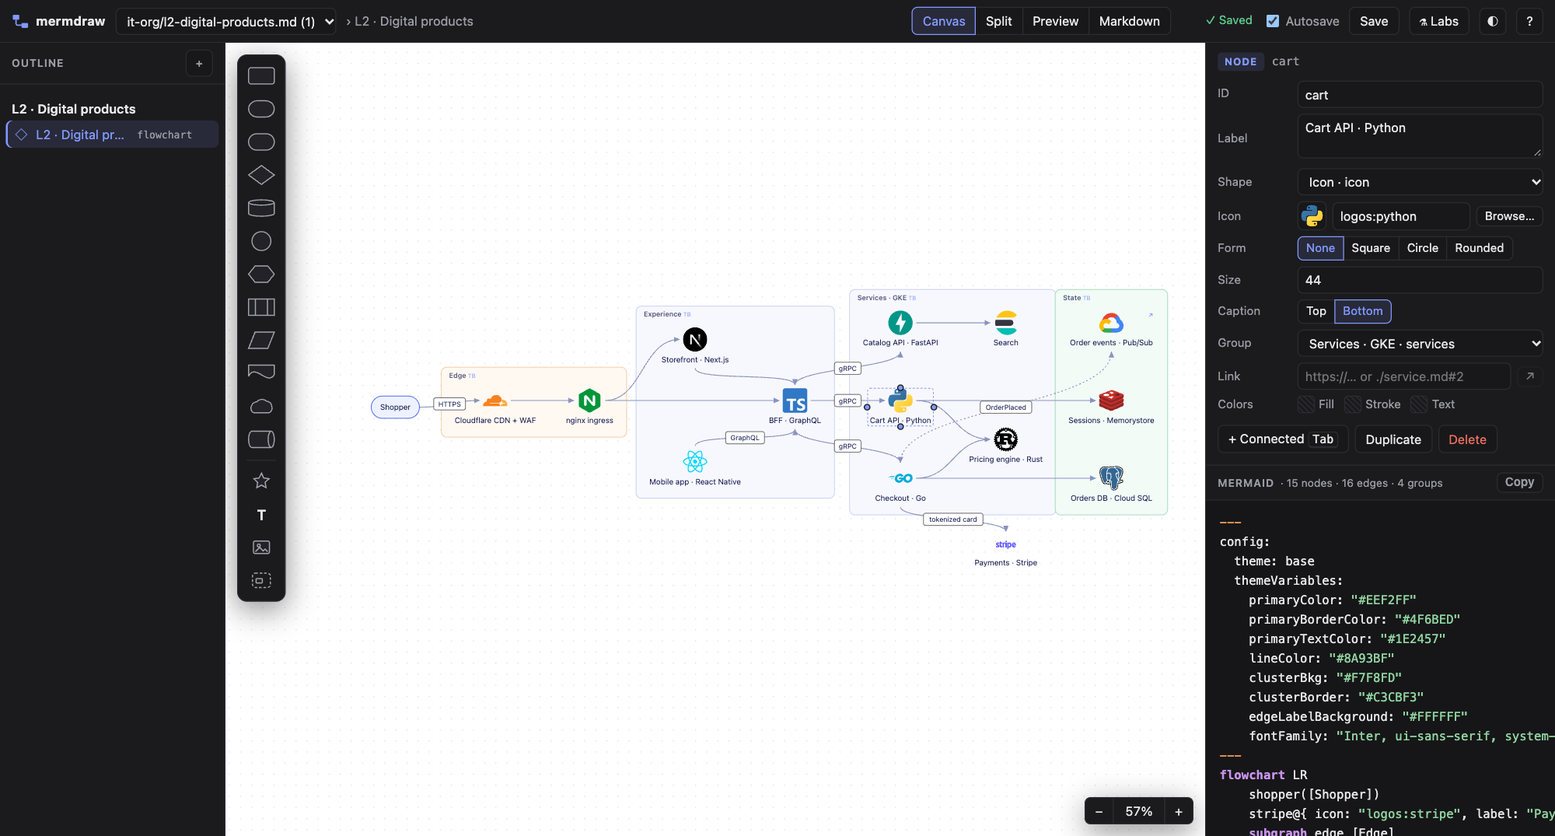
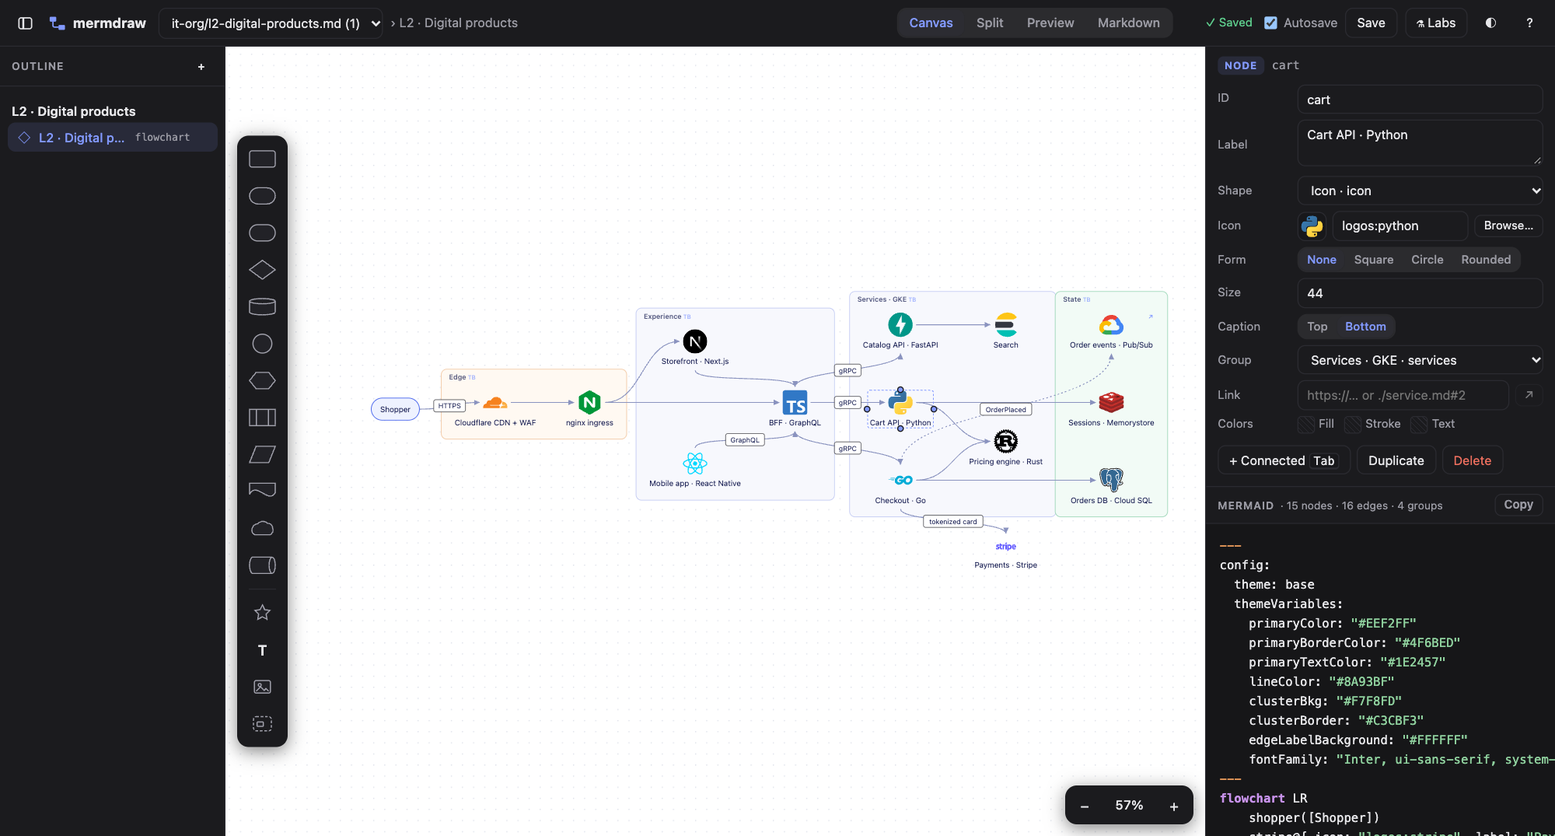
Collapsible outline, centered palette, Miro-style chrome
- The outline sidebar collapses with a top-bar toggle or Cmd-\, slides
  in and out, and the choice is remembered per browser
- The palette is vertically centered on the canvas's left edge and
  adds a second or third column when the canvas is too short; fit to
  screen keeps diagrams clear of it
- Borderless floating toolbars with a soft layered shadow for the
  palette, zoom bar and back button (now top-left, above the palette)
- Ghost icon buttons with gray hover, pill-style segmented controls,
  8px corners, hover borders and keyboard focus rings on inputs;
  colors and layout are unchanged
- Refresh the README screenshots

diff --git a/web/app.css b/web/app.css
@@ -24,6 +24,11 @@
   --hl-cmt: #9a9aa3;
   --hl-lbl: #1f6fb2;
   --shadow: 0 8px 30px rgba(20, 20, 30, 0.12);
+  /* floating toolbars on the canvas (palette, zoom, back): borderless, soft layered shadow */
+  --island: 0 0 0 1px rgba(20, 20, 30, 0.05), 0 2px 6px rgba(20, 20, 30, 0.07), 0 10px 28px rgba(20, 20, 30, 0.07);
+  --hover: rgba(20, 20, 30, 0.055);
+  --raised: #ffffff;
+  --radius: 8px;
   --font: ui-sans-serif, system-ui, -apple-system, "Segoe UI", Roboto, sans-serif;
   --mono: ui-monospace, "SF Mono", Menlo, Consolas, monospace;
   color-scheme: light;
@@ -36,6 +41,7 @@
     --group-fill: rgba(130, 153, 255, 0.05); --group-stroke: #3d4670; --grid: #2a2a2f; --code-bg: #161618;
     --hl-kw: #c792ea; --hl-str: #8fd19e; --hl-arrow: #f5a25d; --hl-cmt: #6a6a74; --hl-lbl: #7fb8f0;
     --shadow: 0 8px 30px rgba(0, 0, 0, 0.45);
+    --island: 0 0 0 1px rgba(255, 255, 255, 0.07), 0 4px 18px rgba(0, 0, 0, 0.5); --hover: rgba(255, 255, 255, 0.07); --raised: #2c2c32;
     color-scheme: dark;
   }
 }
@@ -46,6 +52,7 @@
   --group-fill: rgba(130, 153, 255, 0.05); --group-stroke: #3d4670; --grid: #2a2a2f; --code-bg: #161618;
   --hl-kw: #c792ea; --hl-str: #8fd19e; --hl-arrow: #f5a25d; --hl-cmt: #6a6a74; --hl-lbl: #7fb8f0;
   --shadow: 0 8px 30px rgba(0, 0, 0, 0.45);
+  --island: 0 0 0 1px rgba(255, 255, 255, 0.07), 0 4px 18px rgba(0, 0, 0, 0.5); --hover: rgba(255, 255, 255, 0.07); --raised: #2c2c32;
   color-scheme: dark;
 }
 
@@ -60,26 +67,33 @@ kbd { border: 1px solid var(--line); border-bottom-width: 2px; border-radius: 4p
 [hidden] { display: none !important; }
 
 /* ---------- top bar */
-.top { height: 44px; flex: none; display: flex; align-items: center; gap: 10px; padding: 0 12px; background: var(--panel); border-bottom: 1px solid var(--line); }
-.brand { display: flex; align-items: center; gap: 7px; font-weight: 700; letter-spacing: 0.02em; }
+.top { height: 48px; flex: none; display: flex; align-items: center; gap: 8px; padding: 0 10px; background: var(--panel); border-bottom: 1px solid var(--line); }
+.brand { display: flex; align-items: center; gap: 7px; font-weight: 700; font-size: 14px; letter-spacing: 0.01em; margin-right: 4px; }
 .brand svg rect { fill: var(--accent); }
 .brand svg path { stroke: var(--accent); stroke-width: 2.4; fill: none; }
-#file { max-width: 260px; }
+#side-toggle svg { fill: none; stroke: currentColor; stroke-width: 1.5; }
+#side-toggle[aria-expanded="true"] svg path { stroke-width: 2.2; }
+#file { max-width: 260px; height: 32px; }
 .crumb { color: var(--muted); white-space: nowrap; overflow: hidden; text-overflow: ellipsis; min-width: 0; }
-select, input:not([type]), input[type="text"], textarea { background: var(--panel-2); border: 1px solid var(--line); border-radius: 6px; padding: 4px 7px; outline: none; }
+select, input:not([type]), input[type="text"], textarea { background: var(--panel); border: 1px solid var(--line); border-radius: var(--radius); padding: 5px 9px; outline: none; transition: border-color 0.12s, box-shadow 0.12s; }
+select:hover, input:not([type]):hover, input[type="text"]:hover, textarea:hover { border-color: color-mix(in srgb, var(--muted) 40%, var(--line)); }
 select:focus, input:focus, textarea:focus { border-color: var(--accent); }
-.btn, .icon-btn, .seg button, .zoom button { background: var(--panel-2); border: 1px solid var(--line); border-radius: 6px; padding: 4px 10px; cursor: pointer; white-space: nowrap; }
-.btn:hover, .icon-btn:hover, .seg button:hover, .zoom button:hover { border-color: var(--accent); }
+select:focus-visible, input:focus-visible, textarea:focus-visible { box-shadow: 0 0 0 3px var(--accent-bg); }
+button:focus-visible { outline: 2px solid var(--accent); outline-offset: 1px; }
+.btn { background: var(--panel); border: 1px solid var(--line); border-radius: var(--radius); padding: 5px 11px; cursor: pointer; white-space: nowrap; transition: background 0.12s; }
+.btn:hover { background: var(--hover); }
 .btn:disabled { opacity: 0.45; cursor: default; }
 .btn.primary { background: var(--accent); border-color: var(--accent); color: #fff; }
+.btn.primary:hover { filter: brightness(1.08); }
 .btn.danger { color: var(--danger); }
-.btn.small { padding: 1px 8px; font-size: 12px; }
-.icon-btn { width: 28px; height: 28px; padding: 0; display: inline-grid; place-items: center; }
-.seg { display: inline-flex; }
-.seg button { border-radius: 0; margin-left: -1px; }
-.seg button:first-child { border-radius: 6px 0 0 6px; margin-left: 0; }
-.seg button:last-child { border-radius: 0 6px 6px 0; }
-.seg button.on { background: var(--accent-bg); border-color: var(--accent); color: var(--accent); position: relative; z-index: 1; }
+.btn.small { padding: 2px 9px; font-size: 12px; border-radius: 7px; }
+.icon-btn { width: 32px; height: 32px; padding: 0; display: inline-grid; place-items: center; border: 0; border-radius: var(--radius); background: none; cursor: pointer; color: var(--fg); transition: background 0.12s; }
+.icon-btn:hover { background: var(--hover); }
+.pane-h .icon-btn, .modal .icon-btn { width: 26px; height: 26px; }
+.seg { display: inline-flex; gap: 2px; padding: 2px; border-radius: 10px; background: var(--hover); }
+.seg button { border: 0; border-radius: var(--radius); background: none; padding: 4px 11px; cursor: pointer; white-space: nowrap; color: var(--muted); font-weight: 500; transition: background 0.12s, color 0.12s; }
+.seg button:hover { color: var(--fg); }
+.seg button.on { background: var(--raised); color: var(--accent); box-shadow: 0 1px 2px rgba(20, 20, 30, 0.12), 0 0 0 1px rgba(20, 20, 30, 0.04); }
 .seg button:disabled { opacity: 0.4; cursor: default; }
 .toggle { display: inline-flex; align-items: center; gap: 4px; color: var(--muted); cursor: pointer; }
 .status { font-size: 12px; color: var(--muted); min-width: 74px; text-align: right; }
@@ -88,9 +102,13 @@ select:focus, input:focus, textarea:focus { border-color: var(--accent); }
 .status.error { color: var(--danger); }
 
 /* ---------- layout */
-.main { flex: 1; min-height: 0; display: grid; grid-template-columns: 232px minmax(0, 1fr) 360px; }
+.main { --side-w: 232px; --right-w: 360px; --side-col: var(--side-w); flex: 1; min-height: 0; display: grid; grid-template-columns: var(--side-col) minmax(0, 1fr) var(--right-w); }
+.main.anim { transition: grid-template-columns 0.18s ease; }
+.main.side-closed { --side-col: 0px; }
 .side, .right { background: var(--panel); min-height: 0; display: flex; flex-direction: column; }
-.side { border-right: 1px solid var(--line); }
+.side { border-right: 1px solid var(--line); overflow: hidden; }
+.side > * { width: var(--side-w); } /* fixed width, so the content slides instead of reflowing while it collapses */
+.side-closed .side { border-right: 0; }
 .right { border-left: 1px solid var(--line); }
 .center { position: relative; min-width: 0; min-height: 0; }
 .pane-h { display: flex; align-items: center; gap: 6px; padding: 7px 12px; font-size: 11px; font-weight: 600; letter-spacing: 0.06em; text-transform: uppercase; color: var(--muted); border-bottom: 1px solid var(--line); flex: none; }
@@ -104,9 +122,9 @@ select:focus, input:focus, textarea:focus { border-color: var(--accent); }
 .ol-h { padding: 6px 12px 2px; font-weight: 600; color: var(--muted); font-size: 12px; white-space: nowrap; overflow: hidden; text-overflow: ellipsis; }
 .ol-h.l1 { color: var(--fg); font-size: 13px; padding-top: 10px; }
 .ol-h.l3, .ol-h.l4, .ol-h.l5, .ol-h.l6 { padding-left: 22px; font-weight: 500; }
-.ol-d { display: flex; align-items: center; gap: 7px; margin: 1px 6px; padding: 5px 8px; border-radius: 6px; cursor: pointer; }
-.ol-d:hover { background: var(--accent-bg); }
-.ol-d.active { background: var(--accent-bg); color: var(--accent); box-shadow: inset 2px 0 0 var(--accent); }
+.ol-d { display: flex; align-items: center; gap: 7px; margin: 1px 8px; padding: 6px 9px; border-radius: var(--radius); cursor: pointer; }
+.ol-d:hover { background: var(--hover); }
+.ol-d.active { background: var(--accent-bg); color: var(--accent); font-weight: 500; }
 .ol-ico { width: 16px; text-align: center; opacity: 0.8; }
 .ol-t { flex: 1; min-width: 0; white-space: nowrap; overflow: hidden; text-overflow: ellipsis; }
 .ol-k { font-size: 10.5px; color: var(--muted); font-family: var(--mono); }
@@ -187,25 +205,30 @@ select:focus, input:focus, textarea:focus { border-color: var(--accent); }
 .connecting { fill: none; stroke: var(--accent); stroke-width: 1.8; stroke-dasharray: 5 4; }
 .marquee { fill: var(--accent-bg); stroke: var(--accent); stroke-dasharray: 4 3; }
 .inline-edit { position: absolute; z-index: 5; font: 14px/18px var(--font); text-align: center; padding: 6px 8px; border: 2px solid var(--accent); border-radius: 7px; background: var(--panel); color: var(--fg); resize: none; outline: none; box-shadow: var(--shadow); overflow: hidden; }
+.inline-edit:focus-visible { box-shadow: var(--shadow); }
 
-.palette { position: absolute; z-index: 2; left: 12px; top: 12px; display: flex; flex-direction: column; gap: 2px; padding: 5px; background: var(--panel); border: 1px solid var(--line); border-radius: 10px; box-shadow: var(--shadow); max-height: calc(100% - 24px); overflow: auto; }
-.palette .pi { width: 38px; height: 32px; display: grid; place-items: center; border-radius: 6px; cursor: grab; border: 0; background: none; padding: 0; }
-.palette .pi:hover { background: var(--accent-bg); }
+/* vertically centered on the left edge; scrolls when the canvas is shorter than the palette */
+.palette { position: absolute; z-index: 2; left: 12px; top: 50%; transform: translateY(-50%); display: flex; flex-direction: column; gap: 2px; padding: 6px; background: var(--panel); border-radius: 12px; box-shadow: var(--island); max-height: calc(100% - 24px); overflow: auto; scrollbar-width: none; }
+.palette .pi { width: 40px; height: 36px; flex: none; display: grid; place-items: center; border-radius: var(--radius); cursor: grab; border: 0; background: none; padding: 0; transition: background 0.12s; }
+.palette .pi:hover { background: var(--hover); }
+.palette .pi:active { background: var(--accent-bg); }
+.palette.cols { display: grid; grid-template-columns: repeat(var(--cols, 2), 40px); align-content: start; }
+.palette.cols .sep { grid-column: 1 / -1; }
+.canvas-wrap:has(> .back:not([hidden])) .palette { max-height: calc(100% - 128px); } /* stay clear of the back button */
 .palette .pi svg .sh, .palette .pi svg rect, .palette .pi svg polygon, .palette .pi svg path, .palette .pi svg circle { fill: var(--node-fill); stroke: var(--node-stroke); stroke-width: 1.3; }
 .palette .pi svg .sh-line { fill: none; }
 .palette .pi .glyph { font: 600 15px var(--font); color: var(--fg); }
-.palette .sep { height: 1px; background: var(--line); margin: 3px 4px; }
-.zoom { position: absolute; right: 12px; bottom: 12px; display: flex; z-index: 2; box-shadow: var(--shadow); border-radius: 6px; }
-.zoom button { border-radius: 0; margin-left: -1px; min-width: 30px; background: var(--panel); }
-.zoom button:first-child { border-radius: 6px 0 0 6px; }
-.zoom button:last-child { border-radius: 0 6px 6px 0; }
-#zoom-label { min-width: 54px; font-variant-numeric: tabular-nums; }
+.palette .sep { height: 1px; flex: none; background: var(--line); margin: 4px 6px; }
+.zoom { position: absolute; right: 12px; bottom: 12px; z-index: 2; display: flex; gap: 2px; padding: 4px; background: var(--panel); border-radius: 12px; box-shadow: var(--island); }
+.zoom button { min-width: 32px; height: 32px; padding: 0 8px; border: 0; border-radius: var(--radius); background: none; cursor: pointer; font-size: 15px; transition: background 0.12s; }
+.zoom button:hover { background: var(--hover); }
+#zoom-label { min-width: 56px; font-size: 13px; font-weight: 500; font-variant-numeric: tabular-nums; }
 
 /* ---------- inspector */
 .inspector { overflow: auto; max-height: 58%; flex: none; border-bottom: 1px solid var(--line); padding: 10px 12px 12px; }
 .ins-h { display: flex; align-items: center; gap: 8px; margin-bottom: 10px; min-width: 0; }
 .ins-h code { color: var(--muted); white-space: nowrap; overflow: hidden; text-overflow: ellipsis; }
-.tag { font-size: 10.5px; font-weight: 700; letter-spacing: 0.06em; text-transform: uppercase; color: var(--accent); background: var(--accent-bg); padding: 2px 7px; border-radius: 4px; }
+.tag { font-size: 10.5px; font-weight: 700; letter-spacing: 0.06em; text-transform: uppercase; color: var(--accent); background: var(--accent-bg); padding: 2px 7px; border-radius: 6px; }
 .row { display: grid; grid-template-columns: 74px minmax(0, 1fr); align-items: center; gap: 8px; margin: 6px 0; }
 .row > label { color: var(--muted); font-size: 12px; }
 .row input:not([type="color"]):not([type="checkbox"]), .row select, .row textarea { width: 100%; }
@@ -229,6 +252,7 @@ select:focus, input:focus, textarea:focus { border-color: var(--accent); }
 .code pre, .code textarea { position: absolute; inset: 0; margin: 0; padding: 12px 14px 40px; font: 12.5px/1.6 var(--mono); white-space: pre; overflow: auto; tab-size: 4; border: 0; border-radius: 0; }
 .code pre { pointer-events: none; color: var(--fg); }
 .code textarea { background: transparent; color: transparent; caret-color: var(--fg); resize: none; outline: none; }
+.code textarea:focus-visible, .doc:focus-visible { box-shadow: none; }
 .code textarea::selection { background: var(--accent-bg); color: transparent; }
 .hl-k { color: var(--hl-kw); font-weight: 600; }
 .hl-s { color: var(--hl-str); }
@@ -239,22 +263,25 @@ select:focus, input:focus, textarea:focus { border-color: var(--accent); }
 
 /* ---------- misc */
 .modal { position: fixed; inset: 0; background: rgba(0, 0, 0, 0.35); display: grid; place-items: center; z-index: 20; padding: 16px; }
-.modal-card { background: var(--panel); border: 1px solid var(--line); border-radius: 12px; box-shadow: var(--shadow); width: min(620px, 100%); max-height: 90vh; overflow: auto; }
+.modal-card { background: var(--panel); border: 1px solid var(--line); border-radius: 14px; box-shadow: var(--shadow); width: min(620px, 100%); max-height: 90vh; overflow: auto; }
 .modal-card .keys { display: grid; grid-template-columns: max-content 1fr; gap: 7px 18px; padding: 14px 18px; }
 .modal-card .keys > div:nth-child(odd) { color: var(--muted); }
 .modal-card p { padding: 0 18px 16px; margin: 0; }
-.toast { position: fixed; left: 50%; bottom: 22px; transform: translateX(-50%); background: var(--fg); color: var(--bg); padding: 7px 14px; border-radius: 8px; z-index: 30; box-shadow: var(--shadow); font-size: 12.5px; }
+.toast { position: fixed; left: 50%; bottom: 22px; transform: translateX(-50%); background: var(--fg); color: var(--bg); padding: 8px 14px; border-radius: 10px; z-index: 30; box-shadow: var(--shadow); font-size: 12.5px; }
 #layout-host { position: fixed; left: -20000px; top: 0; width: 8000px; visibility: hidden; pointer-events: none; }
 
+@media (prefers-reduced-motion: reduce) {
+  .main.anim { transition: none; }
+}
 @media (max-width: 1100px) {
-  .main { grid-template-columns: 200px minmax(0, 1fr) 300px; }
+  .main { --side-w: 200px; --right-w: 300px; }
   .stage.view-split { grid-template-columns: 1fr; grid-template-rows: minmax(0, 1.4fr) minmax(0, 1fr); }
   .stage.view-split .preview-wrap { border-left: 0; border-top: 1px solid var(--line); }
   .crumb, .toggle { display: none; }
 }
 @media (max-width: 760px) {
   .main { grid-template-columns: minmax(0, 1fr); grid-template-rows: minmax(0, 1fr) 40%; }
-  .side { display: none; }
+  .side, #side-toggle { display: none; }
   .right { border-left: 0; border-top: 1px solid var(--line); }
   .top { gap: 6px; padding: 0 8px; overflow-x: auto; }
   #file { max-width: 140px; }
@@ -280,16 +307,17 @@ select:focus, input:focus, textarea:focus { border-color: var(--accent); }
 .picker-bar { display: flex; gap: 8px; padding: 12px 18px; border-bottom: 1px solid var(--line); }
 .picker-bar input { flex: 1; }
 .icon-grid { display: grid; grid-template-columns: repeat(auto-fill, minmax(88px, 1fr)); gap: 6px; padding: 12px 18px 18px; max-height: 56vh; overflow: auto; }
-.icon-cell { display: grid; justify-items: center; gap: 4px; padding: 10px 4px 6px; border: 1px solid transparent; border-radius: 8px; background: none; cursor: pointer; color: var(--fg); }
-.icon-cell:hover, .icon-cell:focus { border-color: var(--accent); background: var(--accent-bg); outline: none; }
+.icon-cell { display: grid; justify-items: center; gap: 4px; padding: 10px 4px 6px; border: 1px solid transparent; border-radius: 10px; background: none; cursor: pointer; color: var(--fg); }
+.icon-cell:hover { background: var(--hover); }
+.icon-cell:focus { border-color: var(--accent); background: var(--accent-bg); outline: none; }
 .icon-cell svg { width: 36px; height: 36px; }
 .icon-cell span { font-size: 10.5px; color: var(--muted); max-width: 100%; overflow: hidden; text-overflow: ellipsis; white-space: nowrap; }
 .picker-empty { padding: 26px 18px; color: var(--muted); }
 .picker-empty code { background: var(--panel-2); padding: 1px 5px; border-radius: 4px; }
-.icon-prev { display: inline-flex; width: 30px; height: 30px; align-items: center; justify-content: center; border: 1px solid var(--line); border-radius: 6px; background: var(--panel-2); flex: none; }
+.icon-prev { display: inline-flex; width: 30px; height: 30px; align-items: center; justify-content: center; border: 1px solid var(--line); border-radius: var(--radius); background: var(--panel-2); flex: none; }
 .icon-prev svg { width: 22px; height: 22px; }
-.back { position: absolute; z-index: 2; left: 66px; top: 12px; display: flex; align-items: center; gap: 6px; padding: 5px 10px; border-radius: 8px; border: 1px solid var(--line); background: var(--panel); box-shadow: var(--shadow); cursor: pointer; color: var(--fg); max-width: 50%; }
-.back:hover { border-color: var(--accent); }
+.back { position: absolute; z-index: 2; left: 12px; top: 12px; display: flex; align-items: center; gap: 6px; height: 40px; padding: 0 14px; border-radius: 12px; border: 0; background: var(--panel); box-shadow: var(--island); cursor: pointer; color: var(--fg); max-width: 50%; font-weight: 500; }
+.back:hover { background: color-mix(in srgb, var(--panel), var(--fg) 5%); }
 .back span { white-space: nowrap; overflow: hidden; text-overflow: ellipsis; }
 .ins-sub { display: flex; align-items: center; gap: 8px; margin: 14px 0 4px; font-size: 11px; font-weight: 600; letter-spacing: 0.06em; text-transform: uppercase; color: var(--muted); }
 .tip { position: fixed; left: 0; top: 0; z-index: 40; display: flex; align-items: center; gap: 8px; padding: 6px 10px; border-radius: 8px; background: var(--fg); color: var(--bg); font: 500 13px var(--font); white-space: nowrap; pointer-events: none; box-shadow: var(--shadow); }

diff --git a/web/app.js b/web/app.js
@@ -40,6 +40,7 @@ const S = {
   model: null,
   view: store.get('view', 'split'),
   autosave: store.get('autosave', true),
+  outline: store.get('outline', true),
   dirty: false,
   editSeq: 0,
   scope: 'block',
@@ -72,11 +73,17 @@ async function init() {
     icon: (ref) => (flag('icons') ? iconStore.get(ref) : false),
     flag,
     zoom: (k) => ($('#zoom-label').textContent = Math.round(k * 100) + '%'),
+    insetLeft: () => {
+      const p = $('#palette');
+      return p.hidden ? 0 : p.offsetLeft + p.offsetWidth;
+    },
   });
   window.mermdraw = { S, canvas }; // handy from the devtools console
   buildPalette();
+  new ResizeObserver(fitPalette).observe($('#canvas-wrap'));
   bindUI();
   initTooltips();
+  setOutline(S.outline);
   setView(S.view);
   $('#autosave').checked = S.autosave;
   try {
@@ -229,6 +236,7 @@ function applyToDoc() {
 function updateModeUI() {
   const flow = !!S.model;
   $('#palette').hidden = !flow;
+  fitPalette();
   $$('#views button').forEach((b) => (b.disabled = !flow && (b.dataset.view === 'canvas' || b.dataset.view === 'split')));
   setView(S.view);
 }
@@ -253,6 +261,21 @@ function setView(v) {
   }
 }
 let docDirty = false;
+
+/** Shows or hides the outline sidebar; `animate` slides it (only for user toggles, not on load). */
+function setOutline(open, animate = false) {
+  S.outline = open;
+  store.set('outline', open);
+  const main = $('.main');
+  main.classList.toggle('anim', animate);
+  main.classList.toggle('side-closed', !open);
+  $('#side').inert = !open;
+  const b = $('#side-toggle');
+  const label = open ? 'Hide outline' : 'Show outline';
+  b.dataset.tip = label;
+  b.setAttribute('aria-label', label);
+  b.setAttribute('aria-expanded', String(open));
+}
 
 // ------------------------------------------------------------------ outline
 
@@ -1050,6 +1073,7 @@ function updateBack() {
   const prev = S.nav.at(-1);
   $('#back').hidden = !prev;
   $('#back span').textContent = prev ? prev.title : '';
+  fitPalette(); // the palette makes room for the back button
 }
 
 function updateUrl() {
@@ -1095,6 +1119,18 @@ function buildPalette() {
       e.dataTransfer.effectAllowed = 'copy';
     });
     b.addEventListener('click', () => canvas.addShape(b.dataset.shape, null));
+  }
+  fitPalette();
+}
+
+/** Adds palette columns (up to three) while one column doesn't fit the canvas's height. */
+function fitPalette() {
+  const el = $('#palette');
+  el.classList.remove('cols');
+  if (el.hidden) return;
+  for (let n = 2; n <= 3 && el.scrollHeight > el.clientHeight + 1; n++) {
+    el.classList.add('cols');
+    el.style.setProperty('--cols', n);
   }
 }
 
@@ -1274,6 +1310,7 @@ function bindUI() {
     applyTheme(next);
   });
   $('#help').addEventListener('click', () => ($('#help-modal').hidden = false));
+  $('#side-toggle').addEventListener('click', () => setOutline(!S.outline, true));
   $('#add-diagram').addEventListener('click', () => {
     const f = $('#new-form');
     f.hidden = !f.hidden;
@@ -1368,6 +1405,10 @@ function bindUI() {
     if (e.altKey && !mod && /^Digit[1-4]$/.test(e.code)) {
       e.preventDefault();
       return setView(['canvas', 'split', 'preview', 'doc'][+e.code.slice(5) - 1]);
+    }
+    if (mod && e.key === '\\') {
+      e.preventDefault();
+      return setOutline(!S.outline, true);
     }
     if (e.key === 'Escape') $$('.modal').forEach((m) => (m.hidden = true));
     if (typing(e.target)) return;

diff --git a/web/index.html b/web/index.html
@@ -11,6 +11,7 @@
 </head>
 <body>
 <header class="top">
+  <button id="side-toggle" class="icon-btn" data-tip="Hide outline" data-key="⌘\" aria-label="Hide outline" aria-controls="side" aria-expanded="true"><svg viewBox="0 0 20 20" width="18" height="18"><rect x="2.75" y="3.75" width="14.5" height="12.5" rx="2.5"/><path d="M7.75 3.75v12.5"/></svg></button>
   <div class="brand"><svg viewBox="0 0 32 32" width="18" height="18"><rect x="2" y="4" width="12" height="9" rx="2"/><rect x="18" y="19" width="12" height="9" rx="2"/><path d="M8 13v7a3 3 0 0 0 3 3h7"/></svg>mermdraw</div>
   <select id="file" title="Markdown file"></select>
   <div class="crumb" id="crumb"></div>
@@ -30,7 +31,7 @@
 </header>
 
 <div class="main">
-  <aside class="side">
+  <aside class="side" id="side">
     <div class="pane-h">Outline <span class="spacer"></span><button id="add-diagram" class="icon-btn" data-tip="New diagram" aria-label="New diagram">+</button></div>
     <form id="new-form" class="new-form" hidden>
       <input name="title" placeholder="Title (becomes a ## heading)" autocomplete="off">
@@ -100,6 +101,7 @@
       <div>arrows</div><div>nudge (<kbd>⇧</kbd> ×5)</div>
       <div><kbd>⌘Z</kbd> <kbd>⇧⌘Z</kbd></div><div>undo / redo</div>
       <div><kbd>⌘S</kbd></div><div>save now</div>
+      <div><kbd>⌘\</kbd></div><div>show / hide the outline</div>
     </div>
     <p class="muted">Positions are stored in a <code>%% mermdraw:layout</code> comment inside the block. Mermaid ignores it, so GitHub still renders its own automatic layout.</p>
   </div>

diff --git a/web/canvas.js b/web/canvas.js
@@ -322,8 +322,11 @@ export class Canvas {
       this.view = { x: r.width / 2, y: r.height / 2, k: 1 };
     } else {
       const pad = 60;
-      const k = Math.min(1.25, Math.max(0.15, Math.min((r.width - pad * 2) / (b.x2 - b.x1 || 1), (r.height - pad * 2) / (b.y2 - b.y1 || 1))));
-      this.view = { k, x: r.width / 2 - ((b.x1 + b.x2) / 2) * k, y: r.height / 2 - ((b.y1 + b.y2) / 2) * k };
+      // keep clear of the toolbar floating over the canvas's left edge
+      const left = Math.max(pad, (this.hooks.insetLeft?.() || 0) + 24);
+      const w = r.width - left - pad;
+      const k = Math.min(1.25, Math.max(0.15, Math.min(w / (b.x2 - b.x1 || 1), (r.height - pad * 2) / (b.y2 - b.y1 || 1))));
+      this.view = { k, x: left + w / 2 - ((b.x1 + b.x2) / 2) * k, y: r.height / 2 - ((b.y1 + b.y2) / 2) * k };
     }
     this.autoFit = true;
     this.render();

diff --git a/README.md b/README.md
@@ -260,6 +260,7 @@ in the repo and links between files work. Opening a directory serves that direct
 | scroll / <kbd>space</kbd>-drag, <kbd>⌘</kbd>-scroll or pinch, <kbd>0</kbd> | pan, zoom, fit |
 | <kbd>⌘Z</kbd> / <kbd>⇧⌘Z</kbd>, <kbd>⌘S</kbd> | undo / redo, save now |
 | <kbd>⌥1</kbd>–<kbd>⌥4</kbd>, <kbd>?</kbd> | Canvas / Split / Preview / Markdown view, shortcut help |
+| <kbd>⌘\\</kbd> | show or hide the outline |
 
 Statements mermdraw doesn't model on the canvas (comments, `accTitle`, click callbacks…) are kept verbatim.
 
